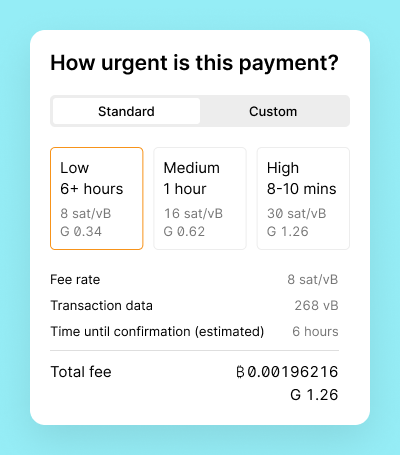
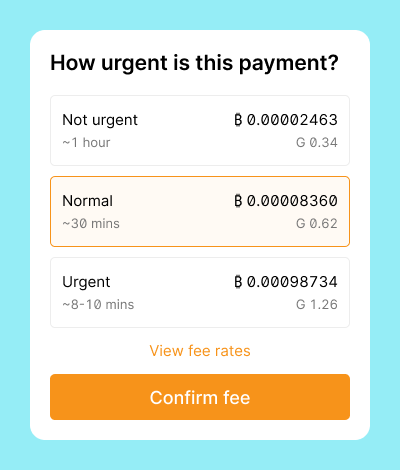
Updated fee image

diff --git a/guide/payments/send.md b/guide/payments/send.md
@@ -22,6 +22,7 @@ Photoshop. The Dropbox link contains the AI and PSD files.
 
 - https://www.dropbox.com/sh/z5qnj2rna7rclae/AAB0dOuiJ3OmJuk7ZXkpbz5ua?dl=0\
 - https://www.figma.com/file/qzvCvqhSRx3Jq8aywaSjlr/Bitcoin-Design-Guide-Illustrations-CO?node-id=1329%3A564
+- https://www.figma.com/file/qr4P17z6WSPADm6oW0cKw2/?node-id=3%3A471
 
 -->
 
@@ -127,9 +128,10 @@ Applications sometimes also allow the sender to select fractions of their total 
 {% include image.html
    image = "/assets/images/guide/payments/send/select-fee-rate.png"
    retina = "/assets/images/guide/payments/send/select-fee-rate@2x.png"
-   alt-text = "Fee selection component with high, medium, low urgency options"
+   alt-text = "Fee selection component with urgent, normal, and not urgent options"
    width = 400
-   height = 400
+   height = 470
+   caption = "G = Haitian Gourde, the local currency of Haiti."
    layout = "float-right-desktop"
 %}
 
